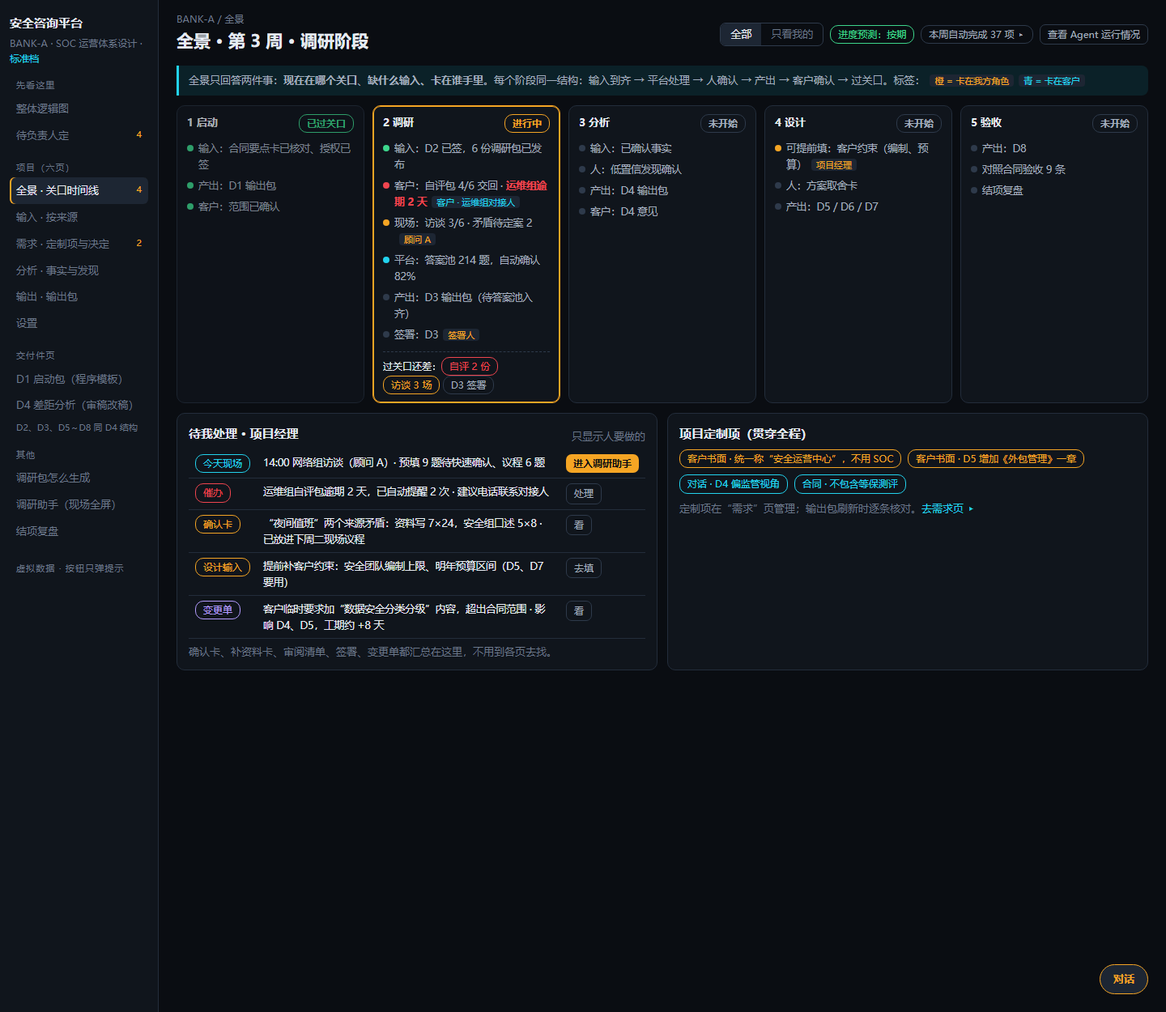
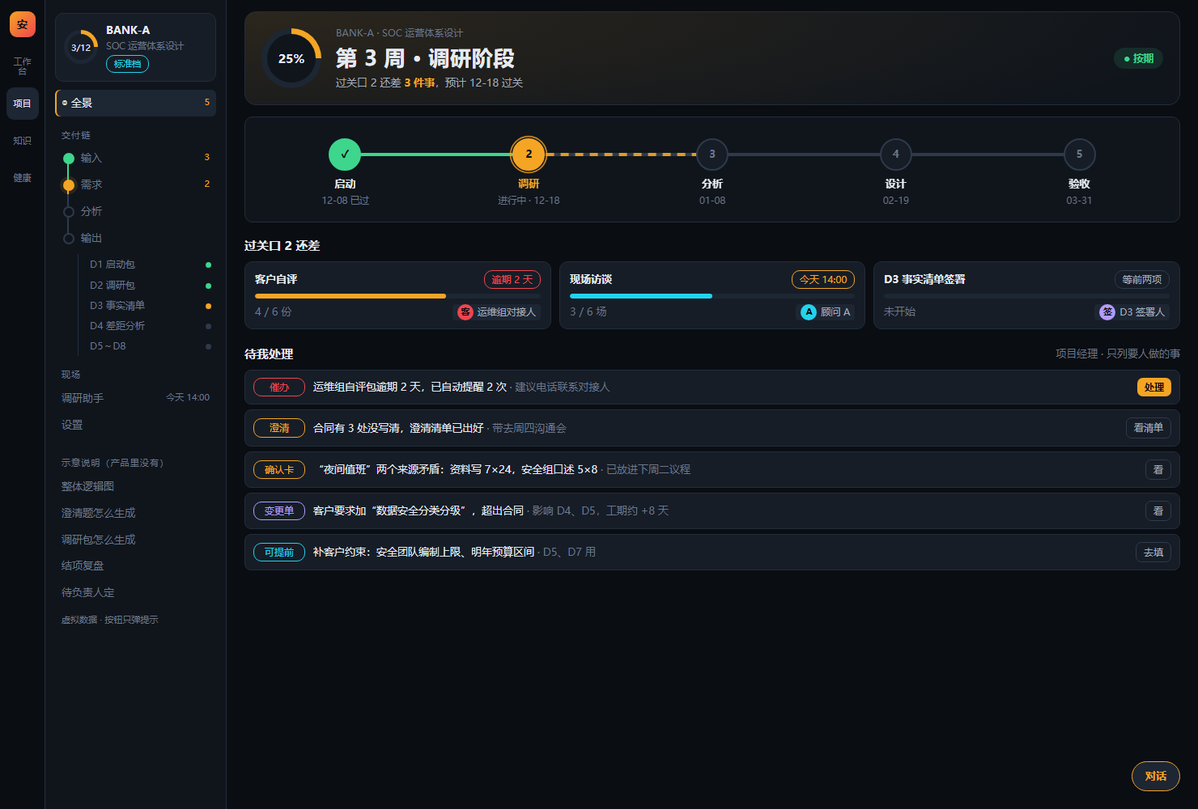
四期 设计：示意 11 最终形态（项目左栏交付链、全景动图、要点卡只留澄清题、澄清题生成说明）

diff --git a/design/screens/11-驾驶舱与交付件刷新示意.html b/design/screens/11-驾驶舱与交付件刷新示意.html
@@ -80,36 +80,98 @@ textarea.inp{min-height:54px;resize:vertical}
 .seg{display:inline-flex;border:1px solid var(--ln2);border-radius:7px;overflow:hidden}.seg a{padding:3px 12px;color:var(--tx3)}.seg a.on{background:var(--s3);color:var(--tx)}
 .lv{font-size:12px;padding:6px 9px;border-radius:6px;margin-bottom:6px;background:var(--s2);border:1px solid var(--ln)}
 .toast{position:fixed;bottom:24px;left:50%;transform:translateX(-50%);background:var(--s3);border:1px solid var(--cyan);color:var(--tx);padding:9px 18px;border-radius:8px;display:none;z-index:9;max-width:720px}
+
+/* ===== 最终形态：左栏 + 全景动图 ===== */
+.rail{width:56px;background:var(--obs);border-right:1px solid var(--ln);display:flex;flex-direction:column;align-items:center;padding:14px 0;gap:6px;position:sticky;top:0;height:100vh;flex-shrink:0}
+.rail .lg{width:32px;height:32px;border-radius:9px;background:linear-gradient(135deg,var(--amber),var(--crim));color:var(--obs);font-weight:800;display:grid;place-items:center;margin-bottom:10px}
+.rail a{width:40px;height:40px;border-radius:9px;display:grid;place-items:center;color:var(--tx3);font-size:11px;line-height:1.1;text-align:center}
+.rail a.on,.rail a:hover{background:var(--s3);color:var(--tx)}
+.side{width:224px;height:100vh;overflow:auto}
+.pcard{background:var(--s2);border:1px solid var(--ln);border-radius:10px;padding:10px;margin-bottom:10px;display:flex;gap:10px;align-items:center}
+@property --v{syntax:'<number>';inherits:false;initial-value:0}
+.ring{--v:0;width:42px;height:42px;border-radius:50%;background:conic-gradient(var(--amber) calc(var(--v)*1%),var(--s3) 0);display:grid;place-items:center;flex-shrink:0;transition:--v 1.4s ease-out}
+.ring i{width:32px;height:32px;border-radius:50%;background:var(--s2);display:grid;place-items:center;font-style:normal;font-size:11px;color:var(--tx)}
+.chain{position:relative;margin:2px 0 4px 4px}
+.chain:before{content:"";position:absolute;left:11px;top:14px;bottom:14px;width:2px;background:linear-gradient(var(--ok) 0 30%,var(--amber) 30% 46%,var(--ln2) 46%)}
+.chain .it{padding-left:28px;position:relative}
+.chain .it:before{content:"";position:absolute;left:6px;top:10px;width:10px;height:10px;border-radius:50%;background:var(--s1);border:2px solid var(--ln2)}
+.chain .it.s-ok:before{background:var(--ok);border-color:var(--ok)}
+.chain .it.s-cur:before{background:var(--amber);border-color:var(--amber);box-shadow:0 0 0 4px var(--amber-d)}
+.sub2{margin:0 0 4px 28px;border-left:1px solid var(--ln);padding-left:8px}
+.sub2 a{display:flex;justify-content:space-between;font-size:12px;padding:3px 6px;border-radius:5px;color:var(--tx3)}
+.sub2 a:hover,.sub2 a.on{color:var(--tx);background:var(--s3)}
+.sd{width:7px;height:7px;border-radius:50%;display:inline-block;margin-top:7px;background:var(--ln2)}.sd.d-ok{background:var(--ok)}.sd.d-am{background:var(--amber)}
+.hero{display:flex;align-items:center;gap:18px;background:radial-gradient(1200px 200px at 0 0,var(--amber-d),transparent),var(--s1);border:1px solid var(--ln);border-radius:14px;padding:16px 20px;margin-bottom:14px}
+.hero .big{font-size:26px;font-weight:800;letter-spacing:.02em}
+.ring.lgr{width:74px;height:74px}.ring.lgr i{width:60px;height:60px;font-size:15px;font-weight:700;background:var(--s1)}
+.pill{border-radius:20px;padding:3px 12px;font-weight:700;font-size:12.5px}
+.metro{position:relative;display:grid;grid-template-columns:repeat(5,1fr);margin:6px 0 4px;padding-top:6px}
+.metro .trk{position:absolute;left:10%;right:10%;top:24px;height:4px;background:var(--ln2);border-radius:2px;overflow:hidden}
+.metro .done{position:absolute;left:0;top:0;bottom:0;width:0;background:var(--ok);animation:grow 1.2s .2s ease-out forwards}
+.metro .flow{position:absolute;left:25%;top:0;bottom:0;width:25%;background:repeating-linear-gradient(90deg,var(--amber) 0 10px,transparent 10px 18px);background-size:36px 4px;opacity:0;animation:fade .3s 1.4s forwards,flow 1s 1.4s linear infinite}
+@keyframes grow{to{width:25%}}@keyframes fade{to{opacity:.9}}@keyframes flow{to{background-position:36px 0}}
+.stn{text-align:center;position:relative;cursor:pointer}
+.stn .nd{width:40px;height:40px;margin:0 auto 6px;border-radius:50%;display:grid;place-items:center;font-weight:800;background:var(--s2);border:2px solid var(--ln2);color:var(--tx3);position:relative;z-index:1}
+.stn.ok .nd{background:var(--ok);border-color:var(--ok);color:var(--obs)}
+.stn.cur .nd{background:var(--amber);border-color:var(--amber);color:var(--obs)}
+.stn.cur .nd:after{content:"";position:absolute;inset:-8px;border-radius:50%;border:2px solid var(--amber);animation:pulse 1.8s ease-out infinite}
+@keyframes pulse{from{transform:scale(.8);opacity:.9}to{transform:scale(1.5);opacity:0}}
+.stn b{display:block}.stn small{color:var(--tx3);font-size:11.5px}
+.stn.cur b{color:var(--amber)}
+.blk{display:grid;grid-template-columns:repeat(3,1fr);gap:10px}
+.bt{background:var(--s2);border:1px solid var(--ln);border-radius:10px;padding:10px 12px;opacity:0;transform:translateY(8px);animation:up .5s forwards}
+.bt:nth-child(1){animation-delay:1.5s}.bt:nth-child(2){animation-delay:1.65s}.bt:nth-child(3){animation-delay:1.8s}
+@keyframes up{to{opacity:1;transform:none}}
+.bar{height:6px;background:var(--s3);border-radius:3px;overflow:hidden;margin:6px 0}
+.bar i{display:block;height:100%;width:0;border-radius:3px;animation:bw 1.2s 1.9s ease-out forwards}
+@keyframes bw{to{width:var(--w)}}
+.who{display:inline-flex;align-items:center;gap:5px;font-size:12px;color:var(--tx2)}
+.av{width:20px;height:20px;border-radius:50%;display:grid;place-items:center;font-size:10.5px;font-weight:700;color:var(--obs)}
+.todo{display:flex;align-items:center;gap:10px;padding:9px 10px;border-radius:8px;border:1px solid var(--ln);background:var(--s2);margin-bottom:6px}
+.todo .k{width:64px;flex-shrink:0;text-align:center}.todo .x{flex:1}
+.flowv{display:grid;grid-template-columns:1fr 34px 1.25fr 34px 1fr;align-items:stretch}
+.flowv .ar{display:grid;place-items:center;color:var(--amber);font-size:20px}
+.qa{background:var(--s2);border:1px solid var(--ln);border-radius:8px;padding:10px 12px;margin-top:8px}
+.qa .op{display:block;padding:4px 8px;margin-top:4px;border:1px solid var(--ln);border-radius:6px;color:var(--tx2)}
+.qa .op.rec{border-color:var(--amber);color:var(--tx)}
+.src{font-size:11px;color:var(--tx3)}
+@media (prefers-reduced-motion:reduce){*{animation:none!important;transition:none!important}.metro .done{width:25%}.metro .flow,.bt{opacity:1;transform:none}.bar i{width:var(--w)}}
 </style></head><body>
 
+<div class="rail"><div class="lg">安</div><a title="工作台">工作<br>台</a><a class="on" title="我的项目">项目</a><a title="知识中心">知识</a><a title="健康看板">健康</a></div>
 <div class="side">
-  <div class="logo">安全咨询平台</div>
-  <div class="proj">BANK-A · SOC 运营体系设计 · <span style="color:var(--cyan)">标准档</span></div>
-  <div class="grp">先看这里</div>
-  <a class="it on" data-p="arch">整体逻辑图</a>
-  <a class="it" data-p="todo">待负责人定 <span class="n">4</span></a>
-  <div class="grp">项目（六页）</div>
-  <a class="it" data-p="pan">全景 · 关口时间线 <span class="n">4</span></a>
-  <a class="it" data-p="in">输入 · 按来源</a>
-  <a class="it" data-p="req">需求 · 定制项与决定 <span class="n">2</span></a>
-  <a class="it" data-p="an">分析 · 事实与发现</a>
-  <a class="it" data-p="out">输出 · 输出包</a>
-  <a class="it" data-p="set">设置</a>
-  <div class="grp">交付件页</div>
-  <a class="it" data-p="d1">D1 启动包（程序模板）</a>
-  <a class="it" data-p="d4">D4 差距分析（审稿改稿）</a>
-  <div class="mut" style="font-size:11px;padding:2px 8px">D2、D3、D5～D8 同 D4 结构</div>
-  <div class="grp">其他</div>
+  <div class="pcard"><div class="ring" id="ring1"><i>3/12</i></div><div><div style="color:var(--tx);font-weight:700">BANK-A</div><div style="font-size:11.5px">SOC 运营体系设计</div><span class="chip c-cy" style="font-size:11px;margin-top:2px">标准档</span></div></div>
+  <a class="it on" data-p="pan"><span>◎ 全景</span><span class="n">5</span></a>
+  <div class="grp">交付链</div>
+  <div class="chain">
+    <a class="it s-ok" data-p="in"><span>输入</span><span class="n">3</span></a>
+    <a class="it s-cur" data-p="req"><span>需求</span><span class="n">2</span></a>
+    <a class="it" data-p="an"><span>分析</span></a>
+    <a class="it" data-p="out"><span>输出</span></a>
+  </div>
+  <div class="sub2">
+    <a data-p="d1"><span>D1 启动包</span><i class="sd d-ok"></i></a>
+    <a data-t="D2 调研包：结构同 D4"><span>D2 调研包</span><i class="sd d-ok"></i></a>
+    <a data-t="D3 事实清单：结构同 D4"><span>D3 事实清单</span><i class="sd d-am"></i></a>
+    <a data-p="d4"><span>D4 差距分析</span><i class="sd"></i></a>
+    <a data-t="D5～D8：结构同 D4"><span>D5～D8</span><i class="sd"></i></a>
+  </div>
+  <div class="grp">现场</div>
+  <a class="it" data-p="fa"><span>调研助手</span><span class="mut" style="font-size:11px">今天 14:00</span></a>
+  <a class="it" data-p="set"><span>设置</span></a>
+  <div class="grp" style="margin-top:22px">示意说明（产品里没有）</div>
+  <a class="it" data-p="arch">整体逻辑图</a>
+  <a class="it" data-p="clar">澄清题怎么生成</a>
   <a class="it" data-p="srv">调研包怎么生成</a>
-  <a class="it" data-p="fa">调研助手（现场全屏）</a>
   <a class="it" data-p="retro">结项复盘</a>
-  <div class="grp" style="margin-top:20px">虚拟数据 · 按钮只弹提示</div>
+  <a class="it" data-p="todo">待负责人定</a>
+  <div class="mut" style="font-size:11px;padding:8px">虚拟数据 · 按钮只弹提示</div>
 </div>
 
 <div class="main">
 
 <!-- ============ 整体逻辑图 ============ -->
-<div class="page on" id="p-arch">
+<div class="page" id="p-arch">
   <div class="crumb">示意 11 · 2026-11-28 · 对应 docs/交付链输入输出方案.md v0.3（整体刷新）</div>
   <h1>整体逻辑：人提供信息和决定，机器负责成文，人审稿改稿</h1>
   <div class="sub">颜色：<span class="chip c-am">人</span> <span class="chip c-cy">程序</span> <span class="chip c-vi">大模型（经网关）</span> <span class="chip c-ok">公司知识</span></div>
@@ -171,42 +233,40 @@ textarea.inp{min-height:54px;resize:vertical}
 </div>
 
 <!-- ============ 全景 ============ -->
-<div class="page" id="p-pan">
-  <div class="top"><div><div class="crumb">BANK-A / 全景</div><h1>全景 · 第 3 周 · 调研阶段</h1></div>
-    <div style="margin-left:auto" class="row"><span class="seg"><a class="on" data-t="显示全部待办">全部</a><a data-t="只看项目经理的待办：3 项">只看我的</a></span><span class="chip c-ok">进度预测：按期</span><span class="chip">本周自动完成 37 项 ▸</span><a class="btn2 sm" data-t="Agent 运行情况默认隐藏，点开只读（11-27 已定）">查看 Agent 运行情况</a></div></div>
-  <div class="note">全景只回答两件事：<b>现在在哪个关口</b>、<b>缺什么输入、卡在谁手里</b>。每个阶段同一结构：输入到齐 → 平台处理 → 人确认 → 产出 → 客户确认 → 过关口。标签：<span class="who">橙 = 卡在我方角色</span><span class="who cu">青 = 卡在客户</span></div>
-  <div class="tl">
-    <div class="stg done"><div class="hd"><span>1 启动</span><span class="chip c-ok">已过关口</span></div>
-      <div class="step"><i class="dot d-ok"></i>输入：合同要点卡已核对、授权已签</div><div class="step"><i class="dot d-ok"></i>产出：D1 输出包</div><div class="step"><i class="dot d-ok"></i>客户：范围已确认</div></div>
-    <div class="stg cur"><div class="hd"><span>2 调研</span><span class="chip c-am">进行中</span></div>
-      <div class="step"><i class="dot d-ok"></i>输入：D2 已签，6 份调研包已发布</div>
-      <div class="step"><i class="dot d-cr"></i>客户：自评包 4/6 交回 · <b style="color:var(--crim)">运维组逾期 2 天</b><span class="who cu">客户 · 运维组对接人</span></div>
-      <div class="step"><i class="dot d-am"></i>现场：访谈 3/6 · 矛盾待定案 2<span class="who">顾问 A</span></div>
-      <div class="step"><i class="dot d-cy"></i>平台：答案池 214 题，自动确认 82%</div>
-      <div class="step"><i class="dot"></i>产出：D3 输出包（待答案池入齐）</div><div class="step"><i class="dot"></i>签署：D3<span class="who">签署人</span></div>
-      <div class="gate">过关口还差：<span class="chip c-cr">自评 2 份</span> <span class="chip c-am">访谈 3 场</span> <span class="chip">D3 签署</span></div></div>
-    <div class="stg"><div class="hd"><span>3 分析</span><span class="chip">未开始</span></div>
-      <div class="step"><i class="dot"></i>输入：已确认事实</div><div class="step"><i class="dot"></i>人：低置信发现确认</div><div class="step"><i class="dot"></i>产出：D4 输出包</div><div class="step"><i class="dot"></i>客户：D4 意见</div></div>
-    <div class="stg"><div class="hd"><span>4 设计</span><span class="chip">未开始</span></div>
-      <div class="step"><i class="dot d-am"></i>可提前填：客户约束（编制、预算）<span class="who">项目经理</span></div><div class="step"><i class="dot"></i>人：方案取舍卡</div><div class="step"><i class="dot"></i>产出：D5 / D6 / D7</div></div>
-    <div class="stg"><div class="hd"><span>5 验收</span><span class="chip">未开始</span></div>
-      <div class="step"><i class="dot"></i>产出：D8</div><div class="step"><i class="dot"></i>对照合同验收 9 条</div><div class="step"><i class="dot"></i>结项复盘</div></div>
+<div class="page on" id="p-pan">
+  <div class="hero">
+    <div class="ring lgr" id="ring2"><i>25%</i></div>
+    <div style="flex:1"><div class="mut" style="font-size:12px">BANK-A · SOC 运营体系设计</div>
+      <div class="big">第 3 周 · 调研阶段</div>
+      <div class="t2">过关口 2 还差 <b style="color:var(--amber)">3 件事</b>，预计 12-18 过关</div></div>
+    <span class="pill" style="background:var(--ok-d);color:var(--ok)">● 按期</span>
   </div>
-  <div class="g2" style="margin-top:12px">
-    <div class="card"><div class="sb"><h2>待我处理 · 项目经理</h2><span class="mut">只显示人要做的</span></div>
-      <table><tr><td><span class="chip c-cy">今天现场</span></td><td>14:00 网络组访谈（顾问 A）· 预填 9 题待快速确认、议程 6 题</td><td><a class="btn sm" data-go="fa">进入调研助手</a></td></tr>
-      <tr><td><span class="chip c-cr">催办</span></td><td>运维组自评包逾期 2 天，已自动提醒 2 次 · 建议电话联系对接人</td><td><a class="btn2 sm" data-t="打开抽屉：催办话术、改截止日">处理</a></td></tr>
-      <tr><td><span class="chip c-am">确认卡</span></td><td>“夜间值班”两个来源矛盾：资料写 7×24，安全组口述 5×8 · 已放进下周二现场议程</td><td><a class="btn2 sm" data-t="打开矛盾卡：两来源原文、建议定案方式">看</a></td></tr>
-      <tr><td><span class="chip c-am">设计输入</span></td><td>提前补客户约束：安全团队编制上限、明年预算区间（D5、D7 要用）</td><td><a class="btn2 sm" data-go="in">去填</a></td></tr>
-      <tr><td><span class="chip c-vi">变更单</span></td><td>客户临时要求加“数据安全分类分级”内容，超出合同范围 · 影响 D4、D5，工期约 +8 天</td><td><a class="btn2 sm" data-go="req">看</a></td></tr></table>
-      <div class="mut" style="margin-top:6px">确认卡、补资料卡、审阅清单、签署、变更单都汇总在这里，不用到各页去找。</div></div>
-    <div class="card"><h2>项目定制项（贯穿全程）</h2>
-      <div class="strip"><span class="chip c-am">客户书面 · 统一称“安全运营中心”，不用 SOC</span><span class="chip c-am">客户书面 · D5 增加《外包管理》一章</span><span class="chip c-cy">对话 · D4 偏监管视角</span><span class="chip c-cy">合同 · 不包含等保测评</span></div>
-      <div class="mut" style="margin-top:8px">定制项在“需求”页管理；输出包刷新时逐条核对。<a style="color:var(--cyan)" data-go="req">去需求页 ▸</a></div></div>
+  <div class="card" style="padding:14px 10px 12px">
+    <div class="metro"><div class="trk"><div class="done"></div><div class="flow"></div></div>
+      <div class="stn ok" data-go="in"><div class="nd">✓</div><b>启动</b><small>12-08 已过</small></div>
+      <div class="stn cur" data-go="in"><div class="nd">2</div><b>调研</b><small>进行中 · 12-18</small></div>
+      <div class="stn" data-go="an"><div class="nd">3</div><b>分析</b><small>01-08</small></div>
+      <div class="stn" data-go="out"><div class="nd">4</div><b>设计</b><small>02-19</small></div>
+      <div class="stn" data-go="out"><div class="nd">5</div><b>验收</b><small>03-31</small></div>
+    </div>
   </div>
+  <h2 style="margin:16px 0 8px">过关口 2 还差</h2>
+  <div class="blk">
+    <div class="bt"><div class="sb"><b>客户自评</b><span class="chip c-cr">逾期 2 天</span></div>
+      <div class="bar"><i style="--w:67%;background:var(--amber)"></i></div><div class="sb"><span class="mut">4 / 6 份</span><span class="who"><span class="av" style="background:var(--crim)">客</span>运维组对接人</span></div></div>
+    <div class="bt"><div class="sb"><b>现场访谈</b><span class="chip c-am">今天 14:00</span></div>
+      <div class="bar"><i style="--w:50%;background:var(--cyan)"></i></div><div class="sb"><span class="mut">3 / 6 场</span><span class="who"><span class="av" style="background:var(--cyan)">A</span>顾问 A</span></div></div>
+    <div class="bt"><div class="sb"><b>D3 事实清单签署</b><span class="chip">等前两项</span></div>
+      <div class="bar"><i style="--w:0%"></i></div><div class="sb"><span class="mut">未开始</span><span class="who"><span class="av" style="background:var(--vio)">签</span>D3 签署人</span></div></div>
+  </div>
+  <div class="sb" style="margin:18px 0 8px"><h2 style="margin:0">待我处理</h2><span class="mut">项目经理 · 只列要人做的事</span></div>
+  <div class="todo"><span class="chip c-cr k">催办</span><div class="x">运维组自评包逾期 2 天，已自动提醒 2 次 <span class="mut">· 建议电话联系对接人</span></div><a class="btn sm" data-t="打开联系人与提醒记录">处理</a></div>
+  <div class="todo"><span class="chip c-am k">澄清</span><div class="x">合同有 3 处没写清，澄清清单已出好 <span class="mut">· 带去周四沟通会</span></div><a class="btn2 sm" data-go="in">看清单</a></div>
+  <div class="todo"><span class="chip c-am k">确认卡</span><div class="x">“夜间值班”两个来源矛盾：资料写 7×24，安全组口述 5×8 <span class="mut">· 已放进下周二议程</span></div><a class="btn2 sm" data-t="打开确认卡">看</a></div>
+  <div class="todo"><span class="chip c-vi k">变更单</span><div class="x">客户要求加“数据安全分类分级”，超出合同 <span class="mut">· 影响 D4、D5，工期约 +8 天</span></div><a class="btn2 sm" data-go="req">看</a></div>
+  <div class="todo"><span class="chip c-cy k">可提前</span><div class="x">补客户约束：安全团队编制上限、明年预算区间 <span class="mut">· D5、D7 用</span></div><a class="btn2 sm" data-go="in">去填</a></div>
 </div>
 
-<!-- ============ 输入 ============ -->
 <div class="page" id="p-in">
   <div class="crumb">BANK-A / 输入</div><h1>输入 · 按来源</h1>
   <div class="sub">所有输入物都在这里，按来源分组；每份输入标出“驱动什么”。交付件页里不再放输入表单。</div>
@@ -225,20 +285,18 @@ textarea.inp{min-height:54px;resize:vertical}
     <tr><td>双方角色</td><td>甲方对接人 1、受访部门 5 个；乙方项目经理、顾问 2</td><td><span class="chip c-ok">已核对</span></td><td>成员、D2 受访角色</td></tr>
     <tr><td>授权与同意</td><td>附件三 ✓ 11-02；附件一（标准档）✓ 11-02；经验积累：同意</td><td><span class="chip c-ok">已核对</span></td><td>关口 1 进入条件、结项沉淀许可</td></tr></table>
     <div class="mut" style="margin-top:4px">字段状态：已核对 / 合同未写明 / 待与客户澄清 / 合同外新增。要点卡只反映合同本身，补充协议签后才出新版本；客户需求的细化与变化去“需求”页。</div>
-    <div class="g2" style="margin-top:12px">
-      <div class="card"><div class="sb"><h3>要点卡体检</h3><span class="mut">程序规则 · 核对时自动跑</span></div>
-        <div class="lv"><span class="chip c-ok">通过</span> 资质边界：未出现测评、认证结论类字样（出现即阻断保存）</div>
-        <div class="lv"><span class="chip c-am">提示</span> 验收标准第 7 条“路线图科学合理”无法逐条对照 → 建议改为“措施四要素齐全、与差距一一映射”</div>
-        <div class="lv"><span class="chip c-am">提示</span> 第 3 个付款节点未绑定验收节点</div>
-        <div class="lv"><span class="chip c-am">提示</span> 周期 12 周，同产品黄金样例平均 14 周 → 调研阶段排期偏紧</div>
-        <div class="lv"><span class="chip c-ok">通过</span> 交付件清单与产品默认组件一致</div>
-        <div class="lv"><span class="chip c-ok">通过</span> 档位信号：城商行，标准档合理</div>
-        <div class="lv"><span class="chip c-ok">通过</span> 保留期 180 天与已签保密协议不冲突</div></div>
-      <div class="card"><div class="sb"><h3>需求澄清清单</h3><span class="chip c-am">2 题待澄清</span></div>
-        <div class="mut">“合同未写明 / 待澄清”的字段自动出题，选项取自同产品黄金样例；拿去开启动会或沟通会，结论写进 D1 范围确认单，客户签字后固定。</div>
-        <div class="card2" style="margin-top:8px"><b>1. 制度编写交付几份？</b><div class="t2">A. 3 份核心制度（监测、响应、值班）· 黄金样例常见　B. 5 份（另加外包管理、指标考核）　C. 按差距分析结果定，上限 6 份</div><div class="mut">售前纪要：客户提到“外包管不住”→ 倾向 B</div></div>
-        <div class="card2" style="margin-top:6px"><b>2. 验收标准第 7 条怎么改？</b><div class="t2">A. 措施四要素齐全、与差距一一映射　B. 经客户安全委员会评审通过</div></div>
-        <div class="row" style="margin-top:8px"><a class="btn2 sm" data-t="导出 Word 版澄清清单，带推荐选项">导出澄清清单</a><a class="btn2 sm" data-t="导入会议纪要：Agent 拆成事实 / 决定 / 要求，回显确认">导入会议纪要</a></div></div>
+    <div class="card" style="margin-top:12px"><div class="sb"><h3>需求澄清清单</h3><span><span class="chip c-am">3 题待客户回答</span> <a class="btn2 sm" data-go="clar">怎么生成的</a></span></div>
+      <div class="mut">合同没写清的地方自动出题，带推荐选项，拿去和客户开会；会后导入纪要自动回填。</div>
+      <div class="qa"><b>1. 制度编写交付几份？</b> <span class="src">来源：合同未写明 · 影响 D1、D6、工期</span>
+        <span class="op rec">A. 3 份核心制度（监测、响应、值班）<span class="chip c-am" style="font-size:11px">推荐</span> <span class="mut">同产品 4 个样例中 3 个这样做；售前纪要里客户说过“先把值班管起来”</span></span>
+        <span class="op">B. 5 份（另加外包管理、指标考核）</span><span class="op">C. 按差距分析结果定，上限 6 份</span></div>
+      <div class="qa"><b>2. 验收标准第 7 条“路线图科学合理”怎么落到可核对？</b> <span class="src">来源：验收标准无法逐条对照 · 影响 D7、D8</span>
+        <span class="op rec">A. 每项措施四要素齐全（目标、责任、时间、资源），并与差距一一对应 <span class="chip c-am" style="font-size:11px">推荐</span></span>
+        <span class="op">B. 经客户安全委员会评审通过</span></div>
+      <div class="qa"><b>3. 第 3 笔付款对应哪个交付节点？</b> <span class="src">来源：付款未绑定验收 · 影响关口日期</span>
+        <span class="op rec">A. D5 设计方案签收 <span class="chip c-am" style="font-size:11px">推荐</span></span><span class="op">B. D6 制度包签收</span></div>
+      <div class="row" style="margin-top:10px"><a class="btn sm" data-t="导出 Word 版澄清清单（含推荐选项），可直接当会议议程">导出澄清清单</a><a class="btn2 sm" data-t="导入会议纪要：Agent 按题抽答案，只有冲突和没答到的才给你确认">导入会议纪要</a><a class="btn2 sm" data-t="开会时也可以直接在这里勾选">会上直接勾选</a></div>
+      <div class="mut" style="margin-top:6px;font-size:11.5px">其余自动检查已通过，不显示。</div>
     </div>
   </div>
 
@@ -436,6 +494,41 @@ textarea.inp{min-height:54px;resize:vertical}
 </div>
 
 <!-- ============ 调研包 ============ -->
+<div class="page" id="p-clar">
+  <div class="crumb">示意说明</div><h1>澄清题怎么生成</h1>
+  <div class="sub">客户不登录平台，澄清只能走“出题 → 开会 → 导入纪要”。人只做两件事：会上问；会后确认有冲突的答案。</div>
+  <div class="flowv">
+    <div class="card"><h3>① 输入</h3>
+      <div class="lv"><span class="dot d-cy"></span><b>合同要点卡</b>：标“合同未写明 / 待澄清”的字段</div>
+      <div class="lv"><span class="dot d-cy"></span><b>要点卡规则检查的提示项</b>：验收不可核对、付款未绑定验收、工期偏离样例</div>
+      <div class="lv"><span class="dot d-cy"></span><b>售前材料</b>：建议书、需求沟通纪要里的客户原话与痛点</div>
+      <div class="lv"><span class="dot d-cy"></span><b>同产品黄金样例</b>：别的项目这一项怎么定的</div>
+      <div class="lv"><span class="dot d-cy"></span><b>产品默认组件</b>：交付件清单、默认份数与工期</div></div>
+    <div class="ar">➜</div>
+    <div class="card"><h3>② 平台怎么做 <span class="mut" style="font-weight:400">程序规则 + 交付项目经理 Agent</span></h3>
+      <div class="lv"><b>找缺口</b>（程序规则）：逐字段比对，列出要问的点；规则查过没问题的不出题</div>
+      <div class="lv"><b>出题</b>（Agent）：每个缺口一道单选题，2～3 个选项取自黄金样例，标推荐和理由（引样例条数、售前原话）</div>
+      <div class="lv"><b>标影响</b>：写清影响哪个交付件、哪个关口；按影响大小排序，合并重复问题</div>
+      <div class="lv"><b>过检查</b>：机密级检测；资质边界用语（不出现测评、认证结论）</div></div>
+    <div class="ar">➜</div>
+    <div class="card"><h3>③ 输出</h3>
+      <div class="lv"><span class="dot d-am"></span><b>澄清清单</b>：Word 一页，可直接当启动会或沟通会议程</div>
+      <div class="lv"><span class="dot d-am"></span>全景“待我处理”出现一条</div></div>
+  </div>
+  <div class="arrow" style="margin:10px 0">⬇ 会后</div>
+  <div class="flowv">
+    <div class="card"><h3>④ 回收</h3><div class="lv">导入会议纪要，或会上直接勾选</div><div class="lv mut">纪要先过机密级检测，原文按档位保留期处理</div></div>
+    <div class="ar">➜</div>
+    <div class="card"><h3>⑤ Agent 对题抽答案</h3>
+      <div class="lv"><span class="chip c-ok">自动回填</span> 纪要里答案明确、与其他来源不冲突</div>
+      <div class="lv"><span class="chip c-am">确认卡</span> 答案含糊，或与合同、售前材料矛盾 → 只这几条给项目经理确认</div>
+      <div class="lv"><span class="chip">没答到</span> 留在清单，下次会继续带；到关口仍没有，按推荐选项起草并标“按默认写法”</div>
+      <div class="lv"><span class="chip c-vi">超出合同</span> 客户新提的要求 → 自动起草变更单</div></div>
+    <div class="ar">➜</div>
+    <div class="card"><h3>⑥ 固定</h3><div class="lv">结论写进 <b>D1 范围确认单</b>，客户签字后固定</div><div class="lv">进“需求”页成为定制项或决定；要点卡不改（只反映合同）</div></div>
+  </div>
+</div>
+
 <div class="page" id="p-srv">
   <div class="crumb">BANK-A / 输出 / D2 调研包 · 怎么生成</div><h1>调研包怎么生成</h1>
   <div class="sub">在“输出”页 D2 由平台生成（程序模板 + 选题预填）；输入页只放回收物（资料、自评答卷、现场答卷）；调研助手只用于现场，不出题。</div>
@@ -512,12 +605,15 @@ textarea.inp{min-height:54px;resize:vertical}
   <input class="inp" placeholder="说要做什么…" style="margin-top:8px"></div>
 <div class="toast" id="toast"></div>
 <script>
-function show(p){const it=document.querySelector('.side .it[data-p="'+p+'"]');const c=document.getElementById('ctx');if(c&&it)c.textContent=it.childNodes[0].textContent.trim();document.querySelectorAll('.page').forEach(e=>e.classList.toggle('on',e.id==='p-'+p));document.querySelectorAll('.side .it').forEach(e=>e.classList.toggle('on',e.dataset.p===p));window.scrollTo(0,0)}
-document.querySelectorAll('.side .it').forEach(e=>e.onclick=()=>show(e.dataset.p));
+function show(p){const it=document.querySelector('.side .it[data-p="'+p+'"]');const c=document.getElementById('ctx');if(c&&it)c.textContent=it.childNodes[0].textContent.trim();document.querySelectorAll('.page').forEach(e=>e.classList.toggle('on',e.id==='p-'+p));document.querySelectorAll('.side [data-p]').forEach(e=>e.classList.toggle('on',e.dataset.p===p));if(p==='pan')anim();window.scrollTo(0,0)}
+document.querySelectorAll('.side [data-p]').forEach(e=>e.onclick=()=>show(e.dataset.p));
 document.querySelectorAll('[data-go]').forEach(e=>e.onclick=ev=>{ev.stopPropagation();show(e.dataset.go)});
 document.querySelectorAll('.tabs a[data-tb]').forEach(a=>a.onclick=()=>{const bar=a.parentElement;bar.querySelectorAll('a').forEach(x=>{x.classList.toggle('on',x===a);const p=document.getElementById(x.dataset.tb);if(p)p.classList.toggle('on',x===a)})});
-let tm;document.querySelectorAll('[data-t]').forEach(e=>e.onclick=ev=>{ev.stopPropagation();const t=document.getElementById('toast');t.textContent=e.dataset.t;t.style.display='block';clearTimeout(tm);tm=setTimeout(()=>t.style.display='none',3200)});
-document.querySelectorAll('.stg').forEach(s=>s.onclick=()=>show('in'));
+let tm;function bindT(e){e.onclick=ev=>{ev.stopPropagation();const t=document.getElementById('toast');t.textContent=e.dataset.t;t.style.display='block';clearTimeout(tm);tm=setTimeout(()=>t.style.display='none',3200)}}document.querySelectorAll('[data-t]').forEach(bindT);
+function ring(el,v){el.style.setProperty('--v',0);requestAnimationFrame(()=>requestAnimationFrame(()=>el.style.setProperty('--v',v)))}
+function anim(){const pg=document.getElementById('p-pan');const c=pg.cloneNode(true);pg.replaceWith(c);c.querySelectorAll('[data-go]').forEach(e=>e.onclick=ev=>{ev.stopPropagation();show(e.dataset.go)});c.querySelectorAll('[data-t]').forEach(bindT);ring(document.getElementById('ring2'),25)}
+ring(document.getElementById('ring1'),25);ring(document.getElementById('ring2'),25);
+
 document.getElementById('fab').onclick=()=>document.getElementById('drw').classList.add('on');document.getElementById('drwx').onclick=()=>document.getElementById('drw').classList.remove('on');
 if(location.hash)show(location.hash.slice(1));
 </script>
